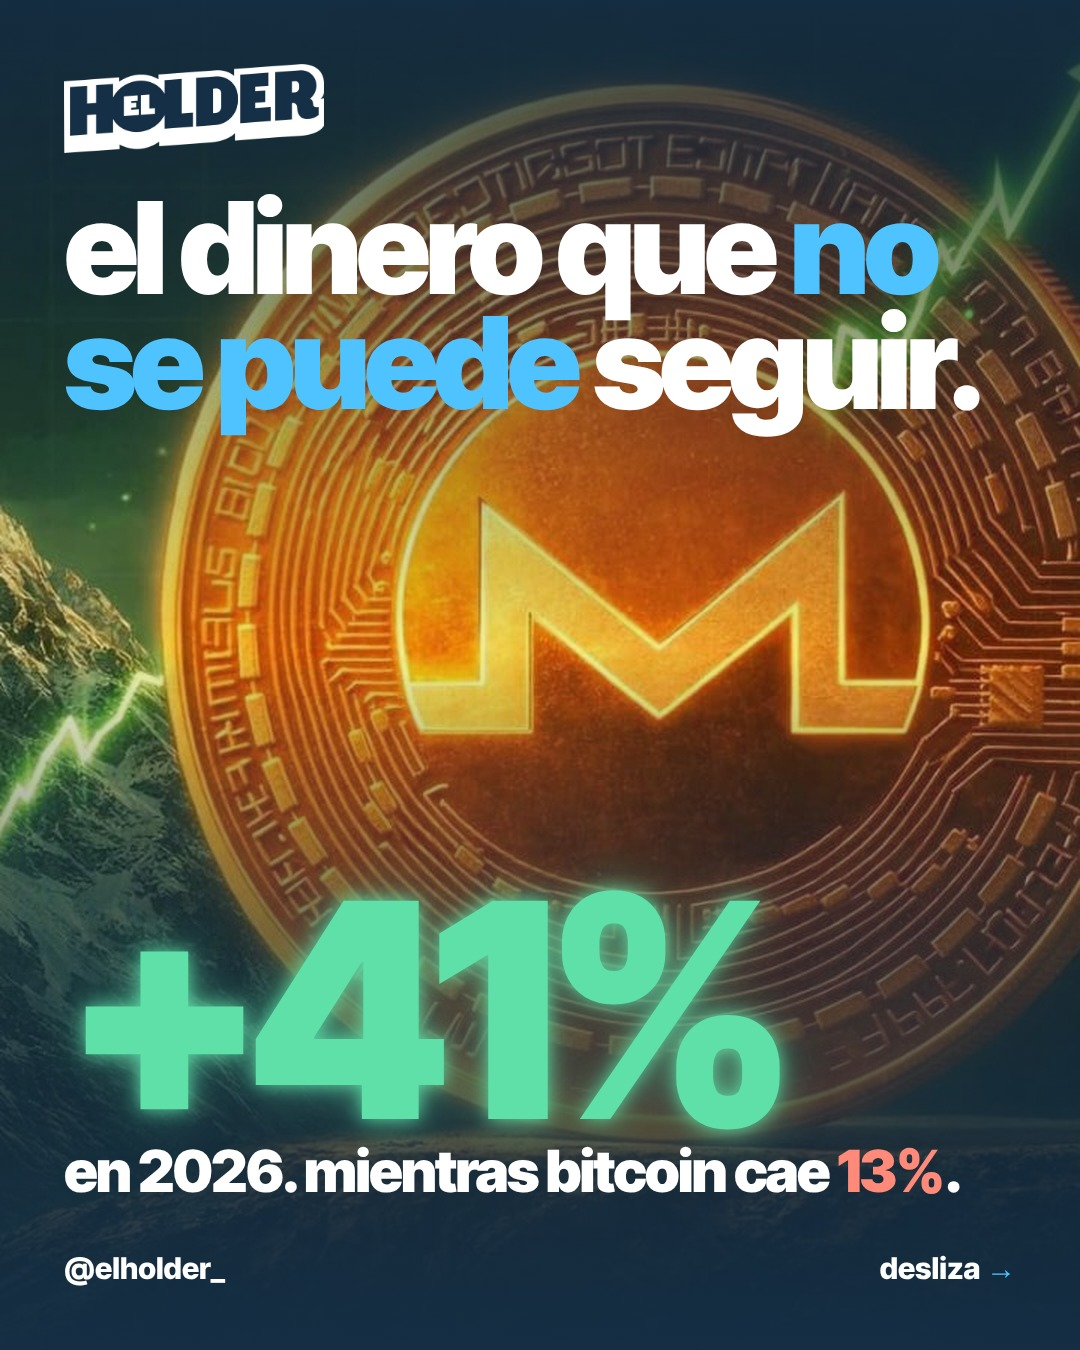
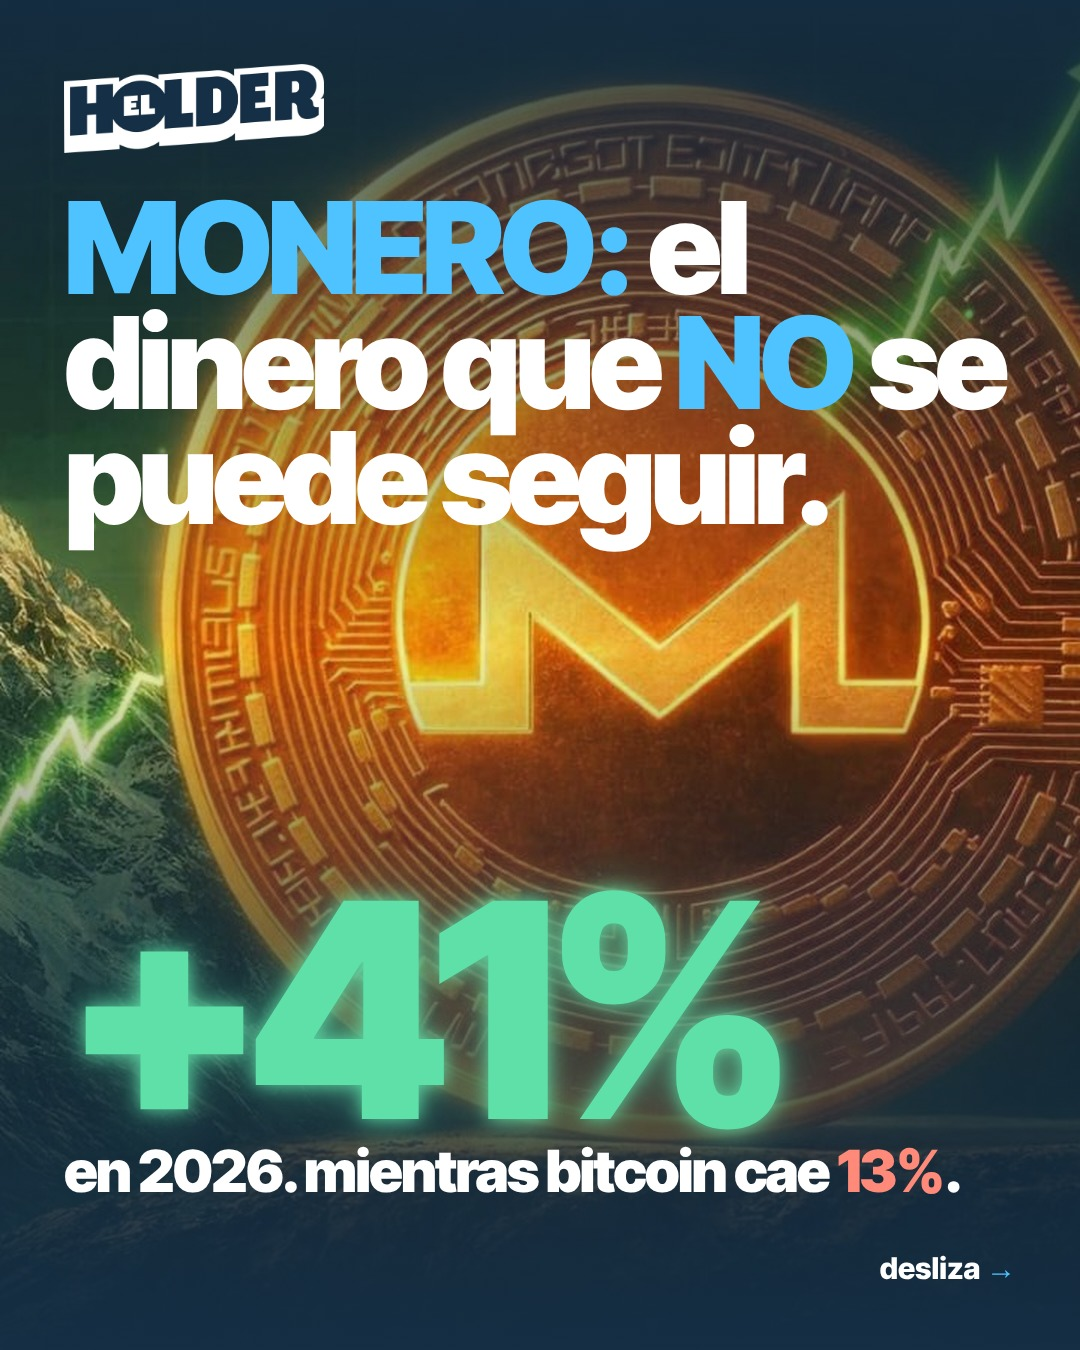
Monero v3: portada 'MONERO: el dinero que NO se puede seguir', sin @elholder_; regla clean en PROCESO
Claude-Session: https://claude.ai/code/session_013jLTesaWWS3zyqi3F18NQD

Changed region(s): [[0.0611, 0.1244, 0.9472, 0.4356], [0.0611, 0.9333, 0.2139, 0.9644]]

diff --git a/series/follow-the-money/2026-11-09-monero/carrusel/src/slide-01.html b/series/follow-the-money/2026-11-09-monero/carrusel/src/slide-01.html
@@ -6,11 +6,11 @@
   <div style="position:absolute;inset:0;background:linear-gradient(180deg,rgba(21,47,70,.88) 0%,rgba(21,47,70,.35) 30%,rgba(21,47,70,.05) 48%,rgba(21,47,70,.55) 68%,rgba(21,47,70,.95) 100%)"></div>
   <div class="top" style="align-items:center"><img src="../../../../../brand/logo-horizontal-transparente.png" alt="El Holder" style="width:260px;height:auto"><span></span></div>
   <div class="arriba" style="top:190px">
-    <h1 class="t-xxl" style="font-size:128px">el dinero que <span class="acento">no se puede</span> seguir.</h1>
+    <h1 class="t-xxl" style="font-size:128px"><span class="acento">MONERO:</span> el dinero que <span class="acento">NO</span> se puede seguir.</h1>
   </div>
   <div class="abajo" style="bottom:150px;gap:6px">
     <p class="cifra neon" style="font-size:300px;color:#5EE0A8">+41%</p>
     <p class="t-m" style="font-size:58px">en 2026. mientras bitcoin cae <span class="rojo">13%</span>.</p>
   </div>
-  <div class="pie"><span class="handle">@elholder_</span><span class="handle">desliza <span class="acento">→</span></span></div>
+  <div class="pie"><span></span><span class="handle">desliza <span class="acento">→</span></span></div>
 </div></body></html>

diff --git a/carruseles/_ejemplo/src/slide-01.html b/carruseles/_ejemplo/src/slide-01.html
@@ -9,5 +9,5 @@
     <div class="t-xs acento" style="letter-spacing:.06em">22 SEP – 21 OCT 2026</div>
     <h1 class="t-xxl">¿quién gana dinero <span class="acento">de verdad</span> en cripto?</h1>
   </div>
-  <div class="pie"><span class="handle">@elholder_</span><span class="handle">desliza <span class="acento">→</span></span></div>
+  <div class="pie"><span></span><span class="handle">desliza <span class="acento">→</span></span></div>
 </div></body></html>

diff --git a/PROCESO.md b/PROCESO.md
@@ -29,7 +29,8 @@ Lo ejecuta la tarea programada diaria. Todo en español latino.
 - Fondos: una foto del banco por slide (excepto CTA, que va en azul liso), sin repetir en el carrusel; elige por tema con `fondos/INDICE.md`. Evita los fondos usados en los últimos 2 carruseles.
 - Si ningún fondo del banco encaja con la portada, puedes generar UNO nuevo con Runway (`gpt-image-2`, ratio `1080:1350`, prompt base en `fondos/INDICE.md`) y agrégalo al banco. Máximo 1 por carrusel, para cuidar créditos.
 - Mascota (Doggy, Doggy con lentes, el perrillo o Chubby): **a veces, no siempre**. Más o menos en la mitad de los carruseles, en 1–2 slides. Doggy como personaje, nunca para promover el precio de $DOGGY.
-- Handle: **@elholder_** (un guion bajo).
+- Handle: **@elholder_** (un guion bajo) solo en descripción/textos. **Nunca en los slides** (regla de Adrián, 7 nov 2026: quitar @elholder_ de abajo para que se vea lo más clean posible; en la portada solo queda "desliza →").
+- **Portada siempre dopamínica** (Adrián, 7 nov 2026): cifra gigante en neón con brillo (verde #5EE0A8 si sube, #FF4D6D si cae), imagen potente y el nombre del proyecto en MAYÚSCULAS en el titular (ej. "MONERO: el dinero que NO se puede seguir.").
 - **Sin etiquetas ni números de slide arriba.** Nada de `n / total` (Instagram ya muestra la numeración, regla de Adrián del 3 nov 2026). Arriba solo va el logo de El Holder en la portada. Si un dato de contexto importa (fecha, sección), va dentro del texto principal.
 - **Logos de terceros:** cuando el carrusel trata de un proyecto con logo reconocible (pump.fun, Binance, etc.), úsalo como elemento visual si Adrián lo proporcionó o ya está en `brand/terceros/` (sin fondo, PNG). Nunca inventes ni redibujes logos.
 - **Fondos que manda Adrián:** si dice algo como "imagen 1 en slide 3, imagen 2 en slide 5", usa sus fotos adjuntas (en el orden en que las adjuntó) como fondo de esos slides, en lugar del banco. Recórtalas a 1080×1350 (cover, centrado), guárdalas en la carpeta del carrusel (`carruseles/<carpeta>/fondos/`) y mantén la capa azul para que el texto se lea.
